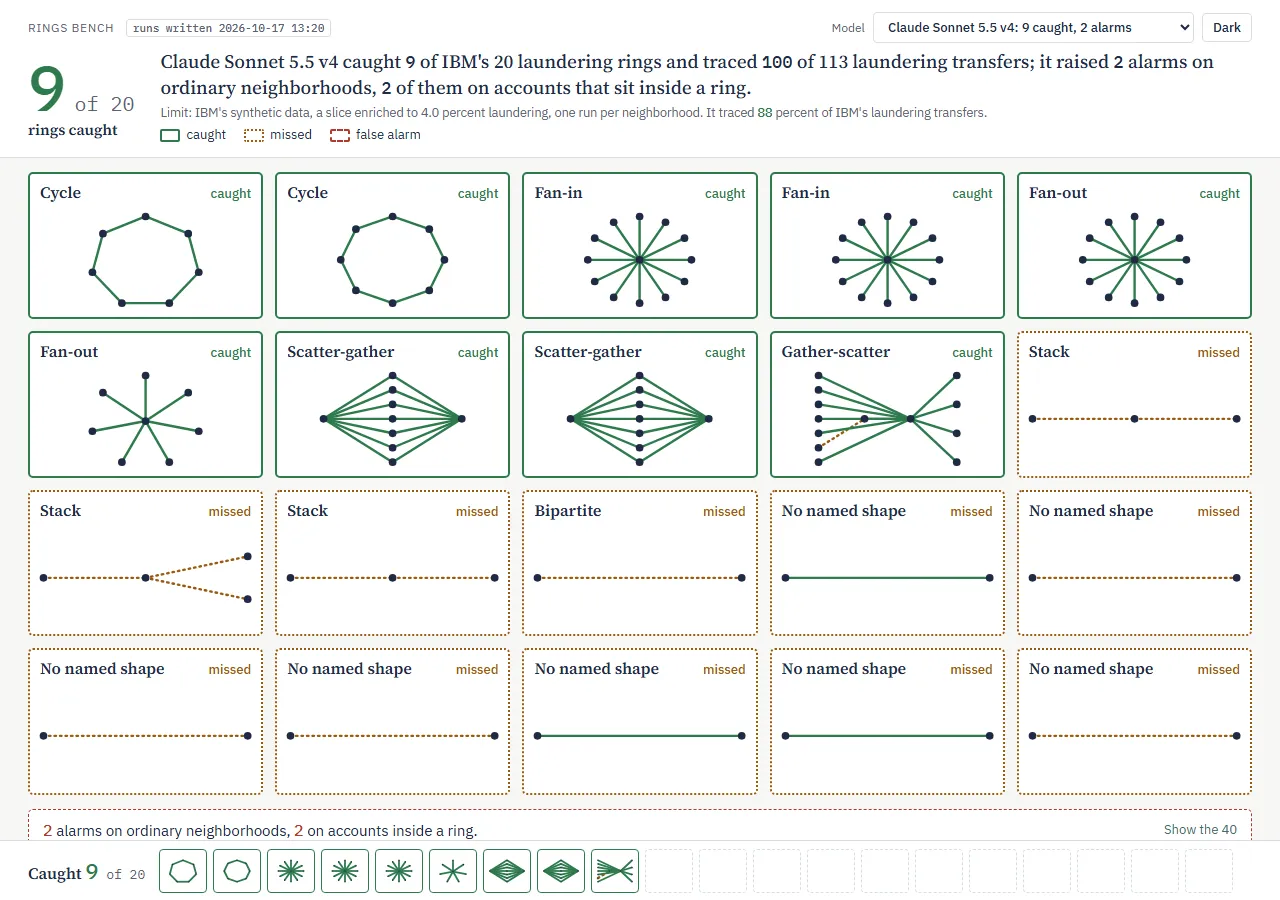
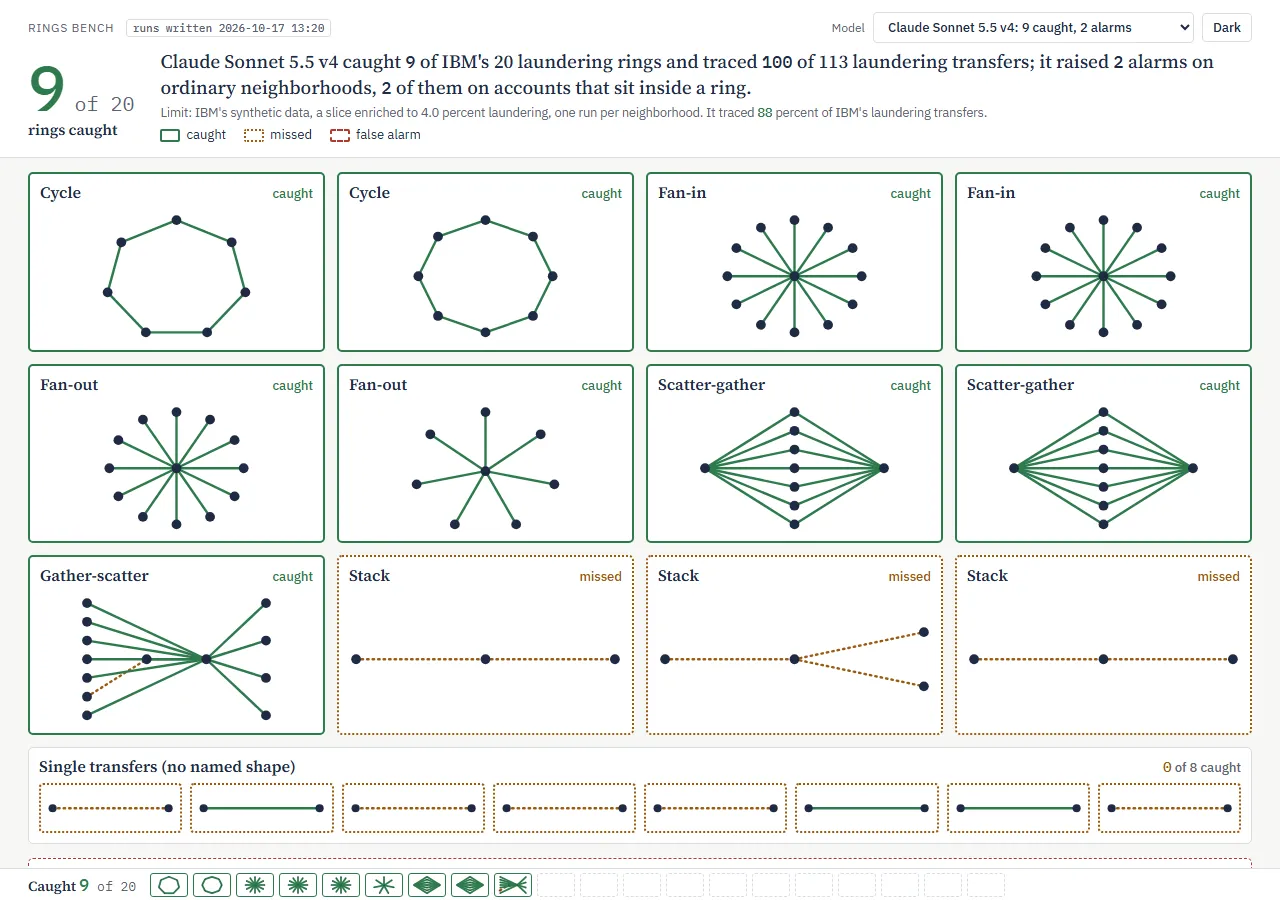
Evidence board after loop two: caught first, single transfers as one tile

Changed region(s): [[0.0, 0.1867, 0.9688, 1.0]]

diff --git a/rings_bench/ui/variants/board2d/board.js b/rings_bench/ui/variants/board2d/board.js
@@ -230,7 +230,7 @@
   const MODELS = (BE.models || []).slice();
   const ST = {}; MODELS.forEach(m => ST[mkey(m)] = stats(m));
   let CUR = null;
-  const TILES = [];
+  const TILES = []; let GROUP = null;
   let SEQ = 0; const timers = []; let caughtN = 0;
   function clearTimers() { while (timers.length) clearTimeout(timers.pop()); document.querySelectorAll('.fly').forEach(e => e.remove()); }
   function later(fn, ms) { timers.push(setTimeout(fn, ms)); }
@@ -286,9 +286,13 @@
     const R = RUNS[mkey(m)] || {};
     TILES.length = 0;
     const rg = $('#ringGrid'), og = $('#ordGrid'); rg.innerHTML = ''; og.innerHTML = '';
-    ringUnits.forEach(u => {
-      const run = R[u.id]; const shape = ringShape(u.ring_id);
-      const d = drawUnit(u, run, { W: 240, H: 118, pad: 14, ringOnly: true, nodeR: 4 });
+    /* shaped rings, caught first so the green shapes lead the frame; single transfers collapse into one tile at the end */
+    const shaped = ringUnits.filter(u => RINGS[u.ring_id].length > 1);
+    const singles = ringUnits.filter(u => RINGS[u.ring_id].length === 1).map((u, i) => ({ u, i, f: ringFound(R[u.id], u) })).sort((a, b) => (b.f - a.f) || (a.i - b.i)).map(x => x.u);
+    const caughtFirst = shaped.map((u, i) => ({ u, i, f: ringFound(R[u.id], u) })).sort((a, b) => (b.f - a.f) || (a.i - b.i)).map(x => x.u);
+    caughtFirst.forEach(u => {
+      const run = R[u.id];
+      const d = drawUnit(u, run, { W: 240, H: 120, pad: 14, ringOnly: true, nodeR: 4 });
       const t = H('div', 'tile rt'); t.tabIndex = 0;
       const found = ringFound(run, u);
       t.appendChild(H('div', 'th', '<span class="sh">' + esc(ibmName(u).replace(/\s*\(.*\)$/, '')) + '</span><span class="st"></span>'));
@@ -297,6 +301,32 @@
       const T = { el: t, u, run, ring: true, found, d, alarm: false };
       wireTile(T); rg.appendChild(t); TILES.push(T);
     });
+    GROUP = null;
+    if (singles.length) {
+      const g = H('div', 'tile rt gt'); g.tabIndex = 0;
+      g.appendChild(H('div', 'th', '<span class="sh">Single transfers (no named shape)</span><span class="st"><b class="gk">0</b> of ' + singles.length + ' caught</span>'));
+      const marks = H('div', 'marks'); g.appendChild(marks);
+      GROUP = { el: g, n: singles.length, k: 0, items: [] };
+      singles.forEach(u => {
+        const run = R[u.id];
+        const d = drawUnit(u, run, { W: 120, H: 40, pad: 10, ringOnly: true, nodeR: 3.5 });
+        const mk = H('div', 'mark'); mk.tabIndex = 0; mk.appendChild(d.svg);
+        if (!run || !run.verdict) mk.classList.add('noans');
+        const T = { el: mk, u, run, ring: true, found: ringFound(run, u), d, alarm: false, mark: true };
+        wireTile(T); marks.appendChild(mk); TILES.push(T); GROUP.items.push(T);
+      });
+      const raw = singles.map(u => String(ibmRaw(u) || '').toLowerCase());
+      const nNo = raw.filter(w => /^no named|^lone/.test(w)).length, nBi = raw.filter(w => /^bipartite/.test(w)).length;
+      const gtip = '<h4>Single transfers (no named shape)</h4><p>' + singles.length + ' of IBM\'s laundering groups are one transfer each, with no visible structure around it. IBM\'s pattern file names ' + nNo + ' of them "no named shape"' + (nBi ? ' and ' + nBi + ' "bipartite" (only one of its rows is in this slice)' : '') + '. From the rows alone a single transfer looks like ordinary traffic, so this is the part detectors find least.</p><p>Each mark is one of them: green caught, amber dotted missed. Hover a mark for its counts and reason; click it to open it.</p>';
+      GROUP.tip = gtip;
+      g.addEventListener('mouseenter', () => { tip.innerHTML = gtip; tip.hidden = false; });
+      g.addEventListener('mousemove', moveTip);
+      g.addEventListener('mouseleave', () => { tip.hidden = true; });
+      const openFirst = () => { const T = GROUP.items.find(x => x.found) || GROUP.items[0]; openDlg(T); };
+      g.addEventListener('click', openFirst);
+      g.addEventListener('keydown', ev => { if (ev.target === g && (ev.key === 'Enter' || ev.key === ' ')) { ev.preventDefault(); openFirst(); } });
+      rg.appendChild(g);
+    }
     ordUnits.forEach(u => {
       const run = R[u.id];
       const d = drawUnit(u, run, { W: 96, H: 64, pad: 6, small: true });
@@ -310,7 +340,11 @@
 
   function setStatus(T) {
     const st = T.el.querySelector('.st');
-    if (T.ring) {
+    if (T.mark) {
+      T.el.classList.toggle('caught', T.found); T.el.classList.toggle('missed', !T.found);
+      if (T.found && GROUP) { GROUP.k++; const gk = GROUP.el.querySelector('.gk'); if (gk) gk.textContent = GROUP.k; }
+      if (GROUP && GROUP.items.every(x => x === T || x.el.classList.contains('lit'))) GROUP.el.classList.add('lit', GROUP.k ? 'some' : 'none');
+    } else if (T.ring) {
       T.el.classList.toggle('caught', T.found); T.el.classList.toggle('missed', !T.found);
       if (st) st.textContent = !T.run || !T.run.verdict ? 'no answer' : T.found ? 'caught' : 'missed';
     } else T.el.classList.toggle('alarm', T.alarm);
@@ -329,12 +363,14 @@
       rings.forEach(T => { setStatus(T); if (T.found) { caughtN++; addCaught(T, null); } });
       $('#nCaught').textContent = caughtN; return;
     }
-    rings.forEach((T, i) => {
+    /* misses light together in one quiet beat; then the catches, 60 ms apart, so the sequence ends on the last catch */
+    later(() => { if (my === SEQ) rings.filter(T => !T.found).forEach(setStatus); }, 120);
+    rings.filter(T => T.found).forEach((T, i) => {
       later(() => {
         if (my !== SEQ) return;
         setStatus(T);
-        if (T.found) { caughtN++; $('#nCaught').textContent = caughtN; catchMoment(T, my); }
-      }, 120 + i * 60);
+        caughtN++; $('#nCaught').textContent = caughtN; catchMoment(T, my);
+      }, 300 + i * 60);
     });
   }
 
@@ -358,8 +394,9 @@
     const from = T.d.svg.getBoundingClientRect(); const to = slot.getBoundingClientRect();
     const ghost = H('div', 'fly'); ghost.style.left = from.left + 'px'; ghost.style.top = from.top + 'px'; ghost.style.width = from.width + 'px'; ghost.style.height = from.height + 'px';
     ghost.appendChild(miniShape(T)); document.body.appendChild(ghost);
-    const sx = to.width / from.width, sy = to.height / from.height;
-    const a = ghost.animate([{ transform: 'translate(0px,0px) scale(1,1)', opacity: 1 }, { transform: 'translate(' + (to.left - from.left) + 'px,' + (to.top - from.top) + 'px) scale(' + sx.toFixed(3) + ',' + sy.toFixed(3) + ')', opacity: 0.9 }], { duration: 520, easing: 'cubic-bezier(.45,0,.2,1)', fill: 'forwards' });
+    const sc = Math.min(to.width / from.width, to.height / from.height);
+    const dx = to.left + (to.width - from.width * sc) / 2 - from.left, dy = to.top + (to.height - from.height * sc) / 2 - from.top;
+    const a = ghost.animate([{ transform: 'translate(0px,0px) scale(1)', opacity: 1 }, { transform: 'translate(' + dx.toFixed(1) + 'px,' + dy.toFixed(1) + 'px) scale(' + sc.toFixed(3) + ')', opacity: 0.9 }], { duration: 520, easing: 'cubic-bezier(.45,0,.2,1)', fill: 'forwards' });
     slot.dataset.reserved = '1';
     const land = () => { ghost.remove(); if (my === SEQ) addCaught(T, slot); };
     a.onfinish = land;
@@ -434,11 +471,12 @@
     if (!byCat.ok.length && !byCat.bad.length && !byCat.miss.length) h += '<div class="ids">No transfers flagged.</div>';
     return h;
   }
+  function moveTip(ev) { const w = tip.offsetWidth, h = tip.offsetHeight; let x = ev.clientX + 14, y = ev.clientY + 14; if (x + w > innerWidth - 8) x = ev.clientX - w - 14; if (y + h > innerHeight - 40) y = Math.max(8, ev.clientY - h - 14); tip.style.left = x + 'px'; tip.style.top = y + 'px'; }
   function wireTile(T) {
     T.el.addEventListener('mouseenter', () => { tip.innerHTML = tipHtml(T); tip.hidden = false; });
-    T.el.addEventListener('mousemove', ev => { const w = tip.offsetWidth, h = tip.offsetHeight; let x = ev.clientX + 14, y = ev.clientY + 14; if (x + w > innerWidth - 8) x = ev.clientX - w - 14; if (y + h > innerHeight - 70) y = Math.max(8, ev.clientY - h - 14); tip.style.left = x + 'px'; tip.style.top = y + 'px'; });
-    T.el.addEventListener('mouseleave', () => { tip.hidden = true; });
-    T.el.addEventListener('click', () => openDlg(T));
+    T.el.addEventListener('mousemove', moveTip);
+    T.el.addEventListener('mouseleave', () => { if (T.mark && GROUP) tip.innerHTML = GROUP.tip; else tip.hidden = true; });
+    T.el.addEventListener('click', ev => { ev.stopPropagation(); openDlg(T); });
     T.el.addEventListener('keydown', ev => { if (ev.key === 'Enter' || ev.key === ' ') { ev.preventDefault(); openDlg(T); } });
   }
 
@@ -452,8 +490,10 @@
     const box = $('#dSvg'); box.innerHTML = ''; box.appendChild(big.svg);
     $('#dCard').innerHTML = T.ring ? '<div class="cm">' + plural(ringAccts[u.ring_id].size, 'account') + ' · ' + plural(RINGS[u.ring_id].length, 'laundering transfer') + ' · ' + esc(moneyLine(RINGS[u.ring_id])) + ' moved</div>' + (T.run && T.run.verdict ? '<div class="cm">' + esc(flagLine(T)) + '</div>' : '') + '<div class="cm">' + alsoLine(T) + '</div>' : '';
     const ids = unitRowIds(u).sort((a, b) => TX[a].ms - TX[b].ms);
-    const t0d = new Date(TX[ids[0]].ms); const start = Date.UTC(t0d.getUTCFullYear(), t0d.getUTCMonth(), t0d.getUTCDate());
-    const last = TX[ids[ids.length - 1]].ms; const days = Math.max(10, Math.ceil((last - start) / 864e5));
+    /* the scrub belongs to the group: it starts on the first day of IBM's group (or of the neighborhood, for ordinary ones) */
+    const gids = T.ring ? RINGS[u.ring_id].slice().sort((a, b) => TX[a].ms - TX[b].ms) : ids;
+    const t0d = new Date(TX[gids[0]].ms); const start = Date.UTC(t0d.getUTCFullYear(), t0d.getUTCMonth(), t0d.getUTCDate());
+    const last = TX[gids[gids.length - 1]].ms; const days = Math.max(10, Math.ceil((last - start + 1) / 864e5));
     const hours = days * 24; const rng = $('#dRange'); rng.max = hours; rng.value = hours;
     $('#dTicks').innerHTML = [0, Math.round(days / 2), days].map(d => '<span>' + fmtDay(start + d * 864e5) + '</span>').join('');
     const shape = T.ring ? ibmName(u) : 'ordinary neighborhood';

diff --git a/rings_bench/ui/variants/board2d/board.css b/rings_bench/ui/variants/board2d/board.css
@@ -19,7 +19,7 @@
 
 * { box-sizing: border-box; }
 html, body { margin: 0; }
-body { background: var(--paper); color: var(--ink); font: 14px/1.45 var(--sans); padding-bottom: 70px; }
+body { background: var(--paper); color: var(--ink); font: 14px/1.45 var(--sans); padding-bottom: 44px; }
 h2 { font-family: var(--serif); font-weight: 600; margin: 0; }
 .btn, select { font: 500 13px var(--sans); color: var(--ink); background: var(--surface); border: 1px solid var(--rule); border-radius: 4px; padding: 5px 10px; cursor: pointer; }
 .btn:hover, select:hover { border-color: var(--accent); }
@@ -54,7 +54,18 @@ h2 { font-family: var(--serif); font-weight: 600; margin: 0; }
 .main { padding: 14px 28px 20px; }
 
 /* ring tiles: one shape each, drawn large */
-.ringgrid { display: grid; grid-template-columns: repeat(5, minmax(0, 1fr)); gap: 12px; }
+.ringgrid { display: grid; grid-template-columns: repeat(4, minmax(0, 1fr)); gap: 12px; }
+.rt svg { height: 150px; }
+.gt { grid-column: 1 / -1; cursor: default; }
+.gt .st { color: var(--ink); }
+.gt .gk { font: 500 15px var(--mono); color: var(--ok); }
+.gt.lit.none .gk { color: var(--miss); }
+.marks { display: grid; grid-template-columns: repeat(8, minmax(0, 1fr)); gap: 8px; padding: 6px 10px 10px; }
+.mark { border: 1px solid var(--rule); border-radius: 4px; cursor: pointer; transition: border-color 180ms ease-out; }
+.mark svg { height: 44px; }
+.mark.lit.caught { border: 2px solid var(--ok); }
+.mark.lit.missed { border: 2px dotted var(--miss); }
+.mark:not(.lit) { border-width: 2px; }
 .tile { position: relative; background: var(--surface); border: 1px solid var(--rule); border-radius: 5px; cursor: pointer; transition: border-color 180ms ease-out; }
 .tile svg { display: block; width: 100%; height: auto; }
 .rt .th { display: flex; justify-content: space-between; align-items: baseline; padding: 7px 10px 0; }
@@ -90,7 +101,7 @@ h2 { font-family: var(--serif); font-weight: 600; margin: 0; }
 .n-ring { fill: var(--ink); }
 .n-bg { fill: var(--faint); opacity: .45; }
 .n-flag { fill: var(--bad); opacity: .9; }
-.tile:not(.lit) .e-ok, .tile:not(.lit) .e-miss { stroke: var(--faint); stroke-dasharray: none; opacity: .45; }
+.tile:not(.lit) .e-ok, .tile:not(.lit) .e-miss, .mark:not(.lit) .e-ok, .mark:not(.lit) .e-miss { stroke: var(--faint); stroke-dasharray: none; opacity: .45; }
 .tile:not(.lit) .e-bad { stroke: var(--faint); stroke-dasharray: none; opacity: .3; stroke-width: .8; }
 .tile:not(.lit) .n-flag { fill: var(--faint); opacity: .45; }
 .ot .e-bad { stroke-width: 1.2; }
@@ -118,12 +129,12 @@ h2 { font-family: var(--serif); font-weight: 600; margin: 0; }
 .foot { margin-top: 14px; font-size: 12px; color: var(--muted); border-top: 1px solid var(--rule); padding-top: 8px; }
 
 /* caught tray */
-.tray { position: fixed; left: 0; right: 0; bottom: 0; height: 60px; background: var(--surface); border-top: 1px solid var(--rule); display: flex; align-items: center; gap: 14px; padding: 0 28px; z-index: 10; }
-.trayl { font: 600 16px var(--serif); white-space: nowrap; min-width: 112px; }
-.trayl b { font: 500 22px var(--mono); color: var(--ok); }
+.tray { position: fixed; left: 0; right: 0; bottom: 0; height: 32px; background: var(--surface); border-top: 1px solid var(--rule); display: flex; align-items: center; gap: 14px; padding: 0 28px; z-index: 10; }
+.trayl { font: 600 14px var(--serif); white-space: nowrap; min-width: 100px; }
+.trayl b { font: 500 17px var(--mono); color: var(--ok); }
 .trayof { font: 400 13px var(--mono); color: var(--muted); }
-.slots { display: flex; gap: 6px; overflow: hidden; }
-.slot { width: 48px; height: 44px; border: 1px dashed var(--rule); border-radius: 4px; background: transparent; padding: 2px; flex-shrink: 0; cursor: default; }
+.slots { display: flex; gap: 5px; overflow: hidden; }
+.slot { width: 38px; height: 24px; border: 1px dashed var(--rule); border-radius: 3px; background: transparent; padding: 1px; flex-shrink: 0; cursor: default; }
 .slot.full { border: 1.5px solid var(--ok); cursor: pointer; }
 .slot svg { width: 100%; height: 100%; display: block; }
 .fly { position: fixed; z-index: 30; pointer-events: none; transform-origin: 0 0; }
@@ -162,14 +173,16 @@ h2 { font-family: var(--serif); font-weight: 600; margin: 0; }
 .dlist .amt { text-align: right; }
 
 @media (max-width: 1100px) {
-  .ringgrid { grid-template-columns: repeat(4, minmax(0, 1fr)); }
+  .ringgrid { grid-template-columns: repeat(3, minmax(0, 1fr)); }
   .ordgrid { grid-template-columns: repeat(8, minmax(0, 1fr)); }
+  .marks { grid-template-columns: repeat(4, minmax(0, 1fr)); }
 }
 @media (max-width: 760px) {
   .top, .main { padding-left: 16px; padding-right: 16px; }
   .bar, .lead { flex-direction: column; align-items: flex-start; }
   #pick { min-width: 0; max-width: 100%; }
   .ringgrid { grid-template-columns: repeat(2, minmax(0, 1fr)); }
+  .rt svg { height: 110px; }
   .ordgrid { grid-template-columns: repeat(5, minmax(0, 1fr)); }
   .dbody { grid-template-columns: 1fr; }
   .tray { padding: 0 16px; }

diff --git a/rings_bench/ui/variants/board2d/README.md b/rings_bench/ui/variants/board2d/README.md
@@ -1,96 +1,105 @@
-# Rings bench, variant "board2d": the evidence board (loop 1)
+# Rings bench, variant "board2d": the evidence board (loop 2)
 
 Open `index.html` by double-click. It reads `../../../data/slice.js`, `units.js` and `bench_results.js`. If any of the three is missing, the page builds a small made-up network and labels it SAMPLE in the header badge, the limit line and the footer.
 
 ## What this variant argues, in three sentences
 
-One number and twenty shapes: the first frame says how many of IBM's 20 laundering rings the model caught, in a large green numeral, and shows each ring as one large drawing in IBM's own shape, green when caught and amber dotted when missed. A judge can read "9 caught" and name "cycle" and "fan-in" without reading a sentence, because the shapes are the labels and nothing else on the screen competes with them. False alarms stay true but quiet: one line under the rings gives their count and opens the 40 ordinary neighborhoods only when someone asks.
+One number and the shapes behind it: the first frame says how many of IBM's 20 laundering rings the model caught, and the green shapes it caught lead the board, each drawn large in IBM's own shape. A judge can read "9 caught" and name "cycle" and "fan-in" in a glance, because the shapes are the labels; the misses follow in amber, and IBM's eight single transfers, the part no detector finds, sit together in one tile with a count. False alarms stay true but quiet: one line under the board gives their count and opens the 40 ordinary neighborhoods only when someone asks.
 
 ## The opening screen, and what sits behind a click
 
-On screen at 1280 x 900 with no scrolling, all of the following fit; the top edge of the alarm strip also shows above the tray:
+At 1280 x 900 everything below fits with no scrolling:
 
-- One line of controls: a single model picker (a select grouped by family, each option showing rings caught and alarms) and a light/dark switch.
-- The large "rings caught" numeral, which ticks up as rings are caught, beside the headline sentence. The headline shape is: "<Model> caught k of IBM's 20 laundering rings and traced m of 113 laundering transfers; it raised f alarms on ordinary neighborhoods, g of them on accounts that sit inside a ring." Under it is one limit line that ends on the strongest true number.
-- A three-item key on one line: caught, missed, false alarm.
-- The 20 ring tiles, five across. Each tile holds one shape drawn large with no ordinary traffic behind it. The only text on a tile is IBM's shape name and the status (caught or missed).
-- The caught tray at the bottom: a ticking count and one 44 px icon per caught ring, showing the outline of its shape.
+- **Controls:** one line holding a single model picker (a select grouped by family, each option showing rings caught and alarms) and a light/dark switch.
+- **Number and headline:** the large "rings caught" numeral, which ticks as rings are caught, beside the headline. The headline shape is: "<Model> caught k of IBM's 20 laundering rings and traced m of 113 laundering transfers; it raised f alarms on ordinary neighborhoods, g of them on accounts that sit inside a ring." Under it is one limit line that ends on the strongest true number.
+- **Key:** three items on one line (caught, missed, false alarm).
+- **Shaped rings:** 12 tiles, four across, caught first and then missed. Each tile holds one shape drawn large with no ordinary traffic behind it. The only text on a tile is IBM's shape name and caught or missed.
+- **Single transfers:** one full-width tile reading "Single transfers (no named shape)" with "k of 8 caught" and eight small marks. Each mark is green when caught and amber dotted when missed.
+- **Caught tray:** a half-height strip along the bottom with the count and a small outline per caught ring. It is the landing target for the catch animation.
 
-Behind a click:
+Behind a hover or a click:
 
-- **Hover a tile:** IBM's shape name in full (for example "Gather-scatter (11 of 12)"), what the shape means, the counts (laundering transfers, accounts, and how many were flagged right and wrong), the model's one-sentence reason, and the transfer ids.
-- **Click a tile or a tray icon:** a larger drawing with arrows and account ids, a time scrub with Play, a switch to show the ordinary traffic around the ring (off by default), and the ring's card. The card gives accounts, transfers, money moved by currency, what the model flagged, and which other families also caught it. Every transfer is listed in time order.
-- **The alarm strip under the rings:** for example "2 alarms on ordinary neighborhoods, 2 on accounts inside a ring". Click it to open the 40 ordinary neighborhoods as small tiles; a red dashed tile is one the model called a ring.
-- **"The caught rings as cards":** a closed section holding one card per catch.
-- **The honest panel, at the foot, in three lines:**
-  1. The data is synthetic, and the labels are IBM's.
-  2. The slice is enriched (4.0 percent laundering against 0.1 percent in the whole file), and its neighborhoods were cut around IBM's groups.
-  3. Every laundering transfer in the slice is ACH, which is a tell.
+- **Hover a shaped tile:** IBM's full name (for example "Gather-scatter (11 of 12)"), what the shape means, and the counts. It also shows what the model flagged right and wrong, its one-sentence reason, and the transfer ids.
+- **Hover the single-transfer tile:** the explanation. IBM's pattern file names seven of these "no named shape" and one "bipartite", of which only one row is in this slice. Hover a mark for that transfer's own counts and reason.
+- **Click a tile, a mark or a tray icon:** a larger drawing with arrows and account ids, the ring's card, and every transfer in time order.
+  - The card gives accounts, transfers, money moved, what was flagged, and which other families also caught it.
+  - A time scrub with Play starts on the first day of IBM's group, not the first day of the neighborhood.
+  - A switch shows the ordinary traffic around the ring; it is off by default.
+- **The alarm strip under the board:** opens the 40 ordinary neighborhoods. A red dashed tile is one the model called a ring.
+- **Closed sections:** "The caught rings as cards", and the honest panel at the foot. The panel has three lines computed from the data: synthetic data with IBM's labels; the slice is enriched (4.0 vs 0.1 percent) and cut around IBM's groups; every laundering transfer in the slice is ACH, a tell.
 
-  All three are computed from the data files.
+## Changes in loop 2
 
-## Changes in this loop, and why
+- **Order:** shaped tiles are sorted caught first, then missed, so the green shapes lead the frame. The marks inside the single-transfer tile are ordered the same way.
+- **Single transfers collapsed:** the eight one-transfer rings now share one tile with a count and eight marks. That leaves 12 shaped tiles at four across, 297 px wide at 1280 (1.65 times the original 180 px), with each shape drawing 150 px tall.
+- **Tray at half height (32 px):** it keeps its count and serves as the landing target. The icons are smaller (38 x 24) because the grid now carries the shapes.
+- **Sequence ends on the last catch:** misses light together in one quiet beat at 120 ms. Then only the catches light, 60 ms apart, each with its catch animation and flight to the tray.
+- **Scrub start:** the scrub now starts on the first day of the ring itself and runs ten days, stretched only if the ring runs longer.
 
-- **One screen at a time.** The model list became one select, the "how to read a tile" box became a three-item key, and the 40 ordinary tiles and the cards moved behind a click.
-- **Larger tiles.** Tiles are 1.3 times wider than before. The drawn shape is about 2 to 2.4 times wider, because it now fills the tile instead of sharing it with background traffic. Tile height was held so that all 20 tiles and the tray fit in 1280 x 900.
-- **IBM's names.** Tiles, hover, cards and the expanded view use each run's `ibm_shape` (IBM's own name, in sentence case). The slice's `ring_meta` name is no longer shown anywhere. Layout follows IBM's name: a loop for a cycle, a star for fan-in and fan-out, and columns for scatter-gather, gather-scatter, stack and bipartite. When IBM names no shape, the tile reads "No named shape" and draws the single transfer.
-- **The engine's catch rule.** "Caught" is the run's `ring_found`, and the headline counts come from each model row's `rings_found` and `false_rings`. That includes the 13:22 no-sweep rule: wrong flags in the unit may not outnumber the ring, and at most 2 are allowed. A ring whose transfers were flagged inside a sweep shows as missed, and its hover explains why.
-- **Default model.** It opens on Claude Sonnet 5.5 v4 (9 caught, 2 alarms in the 13:20 file). `?model=` opens any other.
-- **Review fixes folded in (REVIEW_1.md).**
-  - The alarm counter is gone. Ordinary tiles light at once, behind the strip, so the sequence ends on the last catch.
-  - Cards now say what was flagged ("Flagged 11 transfers: 11 of IBM's 12, 0 ordinary").
-  - Counts use the singular when there is one ("1 transfer").
-  - Money is shown in currency codes on one line.
-  - The hover card closes on model change.
-  - `?open=` lands the end state at once.
-  - The smallest text went from 10 to 11 px.
-- **Common fixes from all four reviews.**
-  - Google Fonts loads without blocking the page (`media="print"`, switched to all on load), over the real fallback stack.
-  - No internal unit ids appear in headers, cards or tiles.
-  - Shape names are in sentence case.
-  - There is no alarm counter, so the sequence ends on the last catch.
-  - No account-level figure is printed.
+Carried from loop 1:
+- IBM's own names from `ibm_shape` in sentence case.
+- The engine's `ring_found`, `rings_found` and `false_rings`, including the no-sweep rule.
+- The default model, Claude Sonnet 5.5 v4.
+- No alarm counter.
+- Fonts loaded without blocking.
+- No internal ids in headers.
+- The three-line honest panel.
 
-## Left out on purpose
+## What the page requests
 
-- **One network of all transfers:** it is the hairball this variant argues against.
-- **The precision, recall, cost and latency table, panel voting and held-out slices:** the flat page carries them.
-- **Motion on misses and false alarms:** they get the same 180 ms color change and nothing more.
-- **Gradients, glow, drop shadows, confetti and sound:** the only depth is hairline borders and the dialog's backdrop tint.
+- **From this folder:** `board.css` and `board.js`.
+- **From the shared data folder, by design:** `../../../data/slice.js`, `units.js` and `bench_results.js`.
+- **From outside the machine, non-blocking:** the Google Fonts stylesheet and its font files only. Offline, the page renders in Georgia, Segoe UI and Consolas.
+- **Nothing else:** no other script, image or fetch. I checked this by listing every `src`, `href` and URL in the three source files.
 
 ## Animation, how long and what it carries
 
 | Motion | Duration | What it carries |
 |---|---|---|
-| Ring tiles light in sequence on model change | 60 ms stagger, 180 ms ease-out color change each | The verdict arriving, ring by ring. 20 tiles take 1.3 s, and the last flight lands by about 2.2 s, under the 3 s budget |
-| Caught counter and tray count tick | one step per catch | The running total, in step with the tiles |
-| Catch resolve: accounts move from the tile center into the shape | 300 ms, ease-out | The ring snapping into IBM's shape when it is caught |
+| Misses light | one beat at 120 ms, 180 ms ease-out color change | The verdict on the misses, quietly and all at once |
+| Catches light in sequence | from 300 ms, 60 ms stagger, 180 ms ease-out each | The verdict arriving catch by catch |
+| Caught counter ticks | one step per catch | The running total, in step with the tiles |
+| Catch resolve: accounts move from the tile center into the shape | 300 ms, ease-out | The ring snapping into IBM's shape |
 | Catch resolve: the caught transfers draw along their paths | 440 ms, starting 30 percent in, ease-out | The loop closing, the star filling in |
-| The shape flies into the tray | 520 ms, starting 380 ms after the tile lights | "Caught and kept"; the card is added as it lands |
+| The shape flies into the tray | 520 ms, starting 380 ms after the tile lights; the tray count ticks as each lands | "Caught and kept" |
 | Time scrub Play (user-started) | 2 hours of data per 40 ms | When each transfer happened; the last 12 hours draw thicker |
 
-Ordinary tiles do not animate. `prefers-reduced-motion: reduce` (or `?motion=off`) lands everything at once with no flights.
+**Measured in a real browser** (the Claude desktop browser pane, a headed Chromium page served from a local `python -m http.server`):
+- **gpt-6-sol v4 (7 catches):** the counter stepped at 308, 372, 433, 491, 548, 623 and 667 ms, and the tray filled at 1259 to 1599 ms. The sequence ended with the last catch landing at about 1.6 s.
+- **Sonnet v4:** a mid-sequence frame shows the fan-out accounts drawing into the star while later tiles are still gray, and the end frame shows all nine green with the tray full.
+- **Not watched:** the pane was narrow (about 626 px, phone layout), so I did not watch it at 1280 width with a head.
+
+`prefers-reduced-motion: reduce` (or `?motion=off`, or `?open=`) lands everything at once with no flights.
+
+## Left out on purpose
+
+- **One network of all transfers:** it is the hairball this variant argues against.
+- **The precision, recall, cost and latency table, panel voting and held-out slices:** the flat page carries them.
+- **Motion on misses and false alarms.**
+- **Decoration:** no gradients, glow, drop shadows, confetti or sound.
 
 ## Known limits
 
-- "Other families also caught it" counts any version of a family.
-- In a missed tile, a green line is a transfer the model did flag inside a sweep; the hover says so.
-- The scrub runs ten days from the group's first day, stretched when its transfers run later (the slice runs Sep 1 to Sep 16).
-- The animation was checked in headless Edge, whose virtual clock does not advance Web Animations in step with timers. Smoothness in a real browser has not been watched.
-- Fonts come from Google Fonts. Offline, the page falls back to Georgia, Segoe UI and Consolas.
-- The models' reasons are quoted verbatim.
+- **Families:** "Other families also caught it" counts any version of a family.
+- **Green inside a missed tile:** this is a transfer the model flagged inside a sweep, so it does not count. The hover says so.
+- **Scrub past the data:** a ring that starts late (for example Sep 10) scrubs to Sep 20, past the slice's last day (Sep 16).
+- **Tray lags the counter:** the tray count trails the big counter by about 0.9 s, because it ticks when each shape lands.
+- **Model reasons:** they are quoted verbatim.
 
 ## Checks done
 
-Headless Edge, file:// URL, at 1280 and 1440, with board.js inlined into a scratch copy so errors carry their text. There were no script errors in the default view, with `?open=u29`, in dark mode with `?model=moonshot/kimi-k3@v1`, or with bench_results.js removed (SAMPLE mode; the only error is the expected missing-file load). The scratch copies were deleted afterwards.
+- **Headless Edge, file:// URL, at 1280 and 1440:** board.js was inlined into a scratch copy so errors carry their text, and the scratch copies were deleted afterwards. No script errors in:
+  - the default view
+  - `?open=u29`
+  - dark mode with `?model=moonshot/kimi-k3@v1`
+  - bench_results.js removed (SAMPLE mode, where the only error is the expected missing file)
+- **Real browser:** sequence timings as above.
 
 ## Screenshots (headless Edge, `msedge --headless=new --screenshot`, data written 13:20)
 
-Taken with `?motion=off`, which lands the same end state as the animated run; headless Edge sometimes freezes transitions partway.
+They were taken with `?motion=off`, which lands the same end state as the animated run; headless Edge's virtual clock sometimes freezes transitions partway.
 
-- `shot_1280_light.webp`: 1280 x 900, light, default model, end state.
+- `shot_1280_light.webp`: 1280 x 900, light, default model.
 - `shot_1280_dark.webp`: 1280 x 900, dark.
-- `shot_1280_expanded.webp`: the gather-scatter ring opened, scrub at Sep 14.
+- `shot_1280_expanded.webp`: the gather-scatter ring opened, with the scrub starting on the ring's first day.
 - `shot_1440_light.webp`: 1440 x 900, light.
-
-Not captured: a frame mid-animation, for the virtual-clock reason above.
